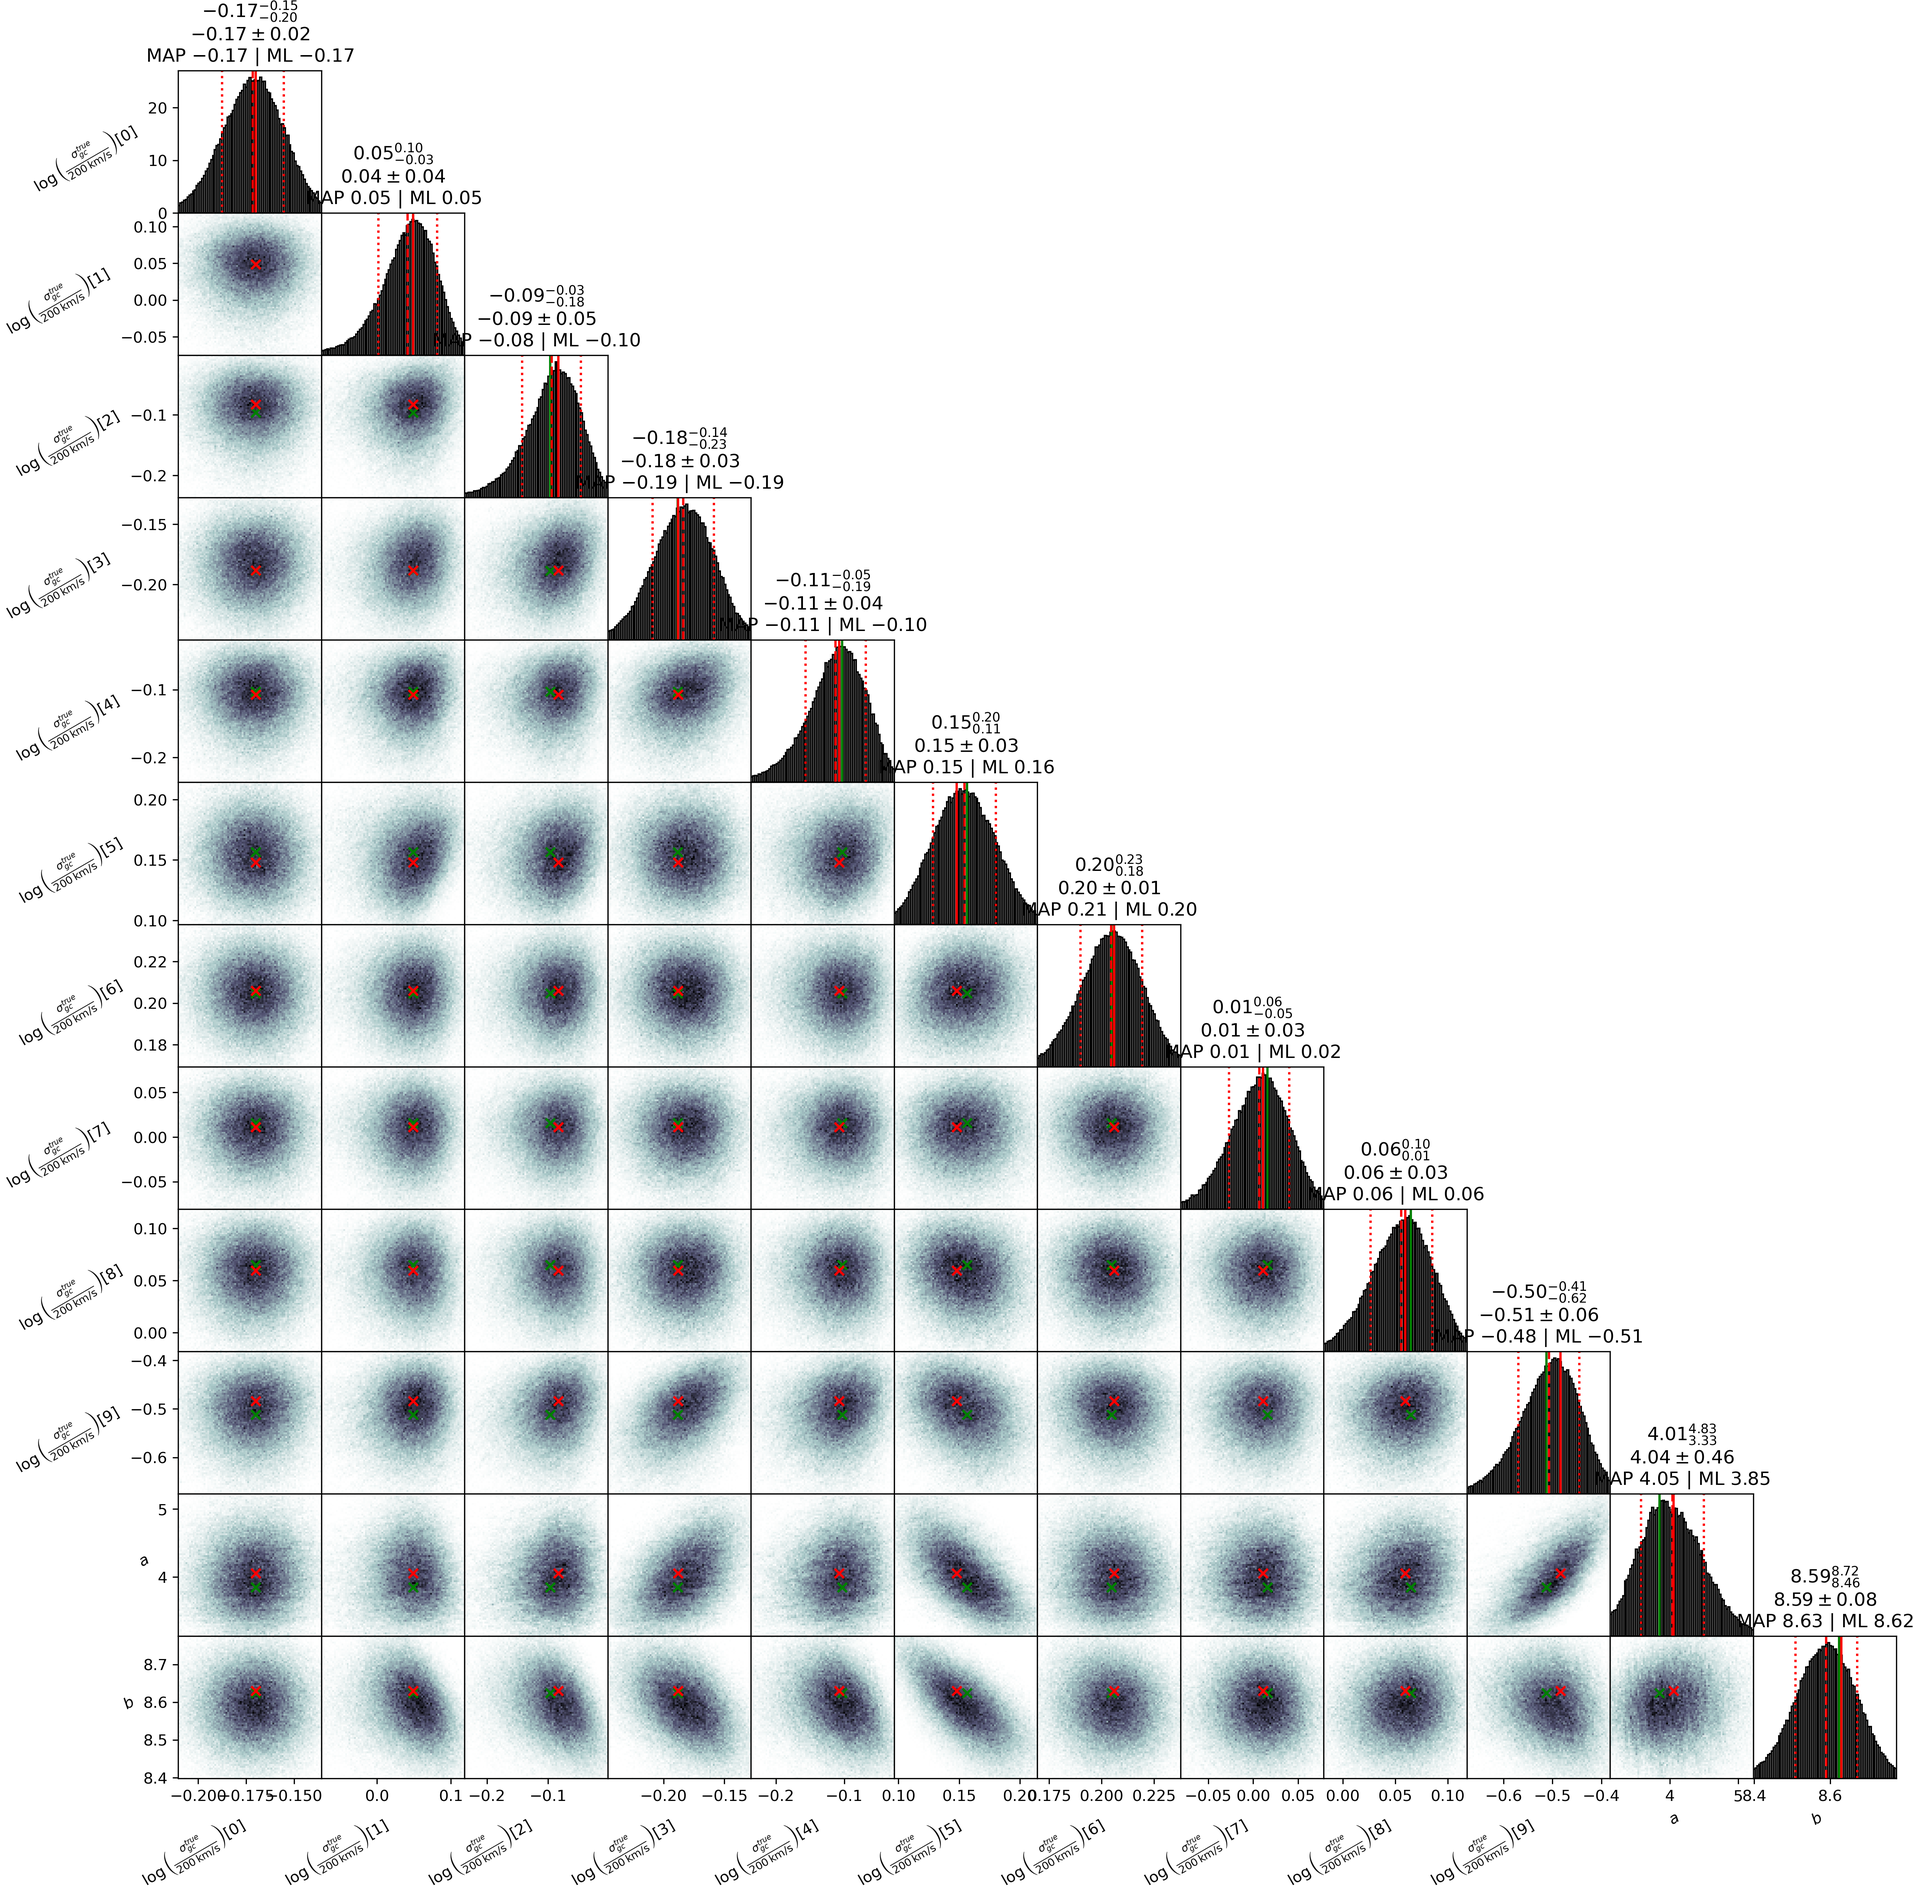
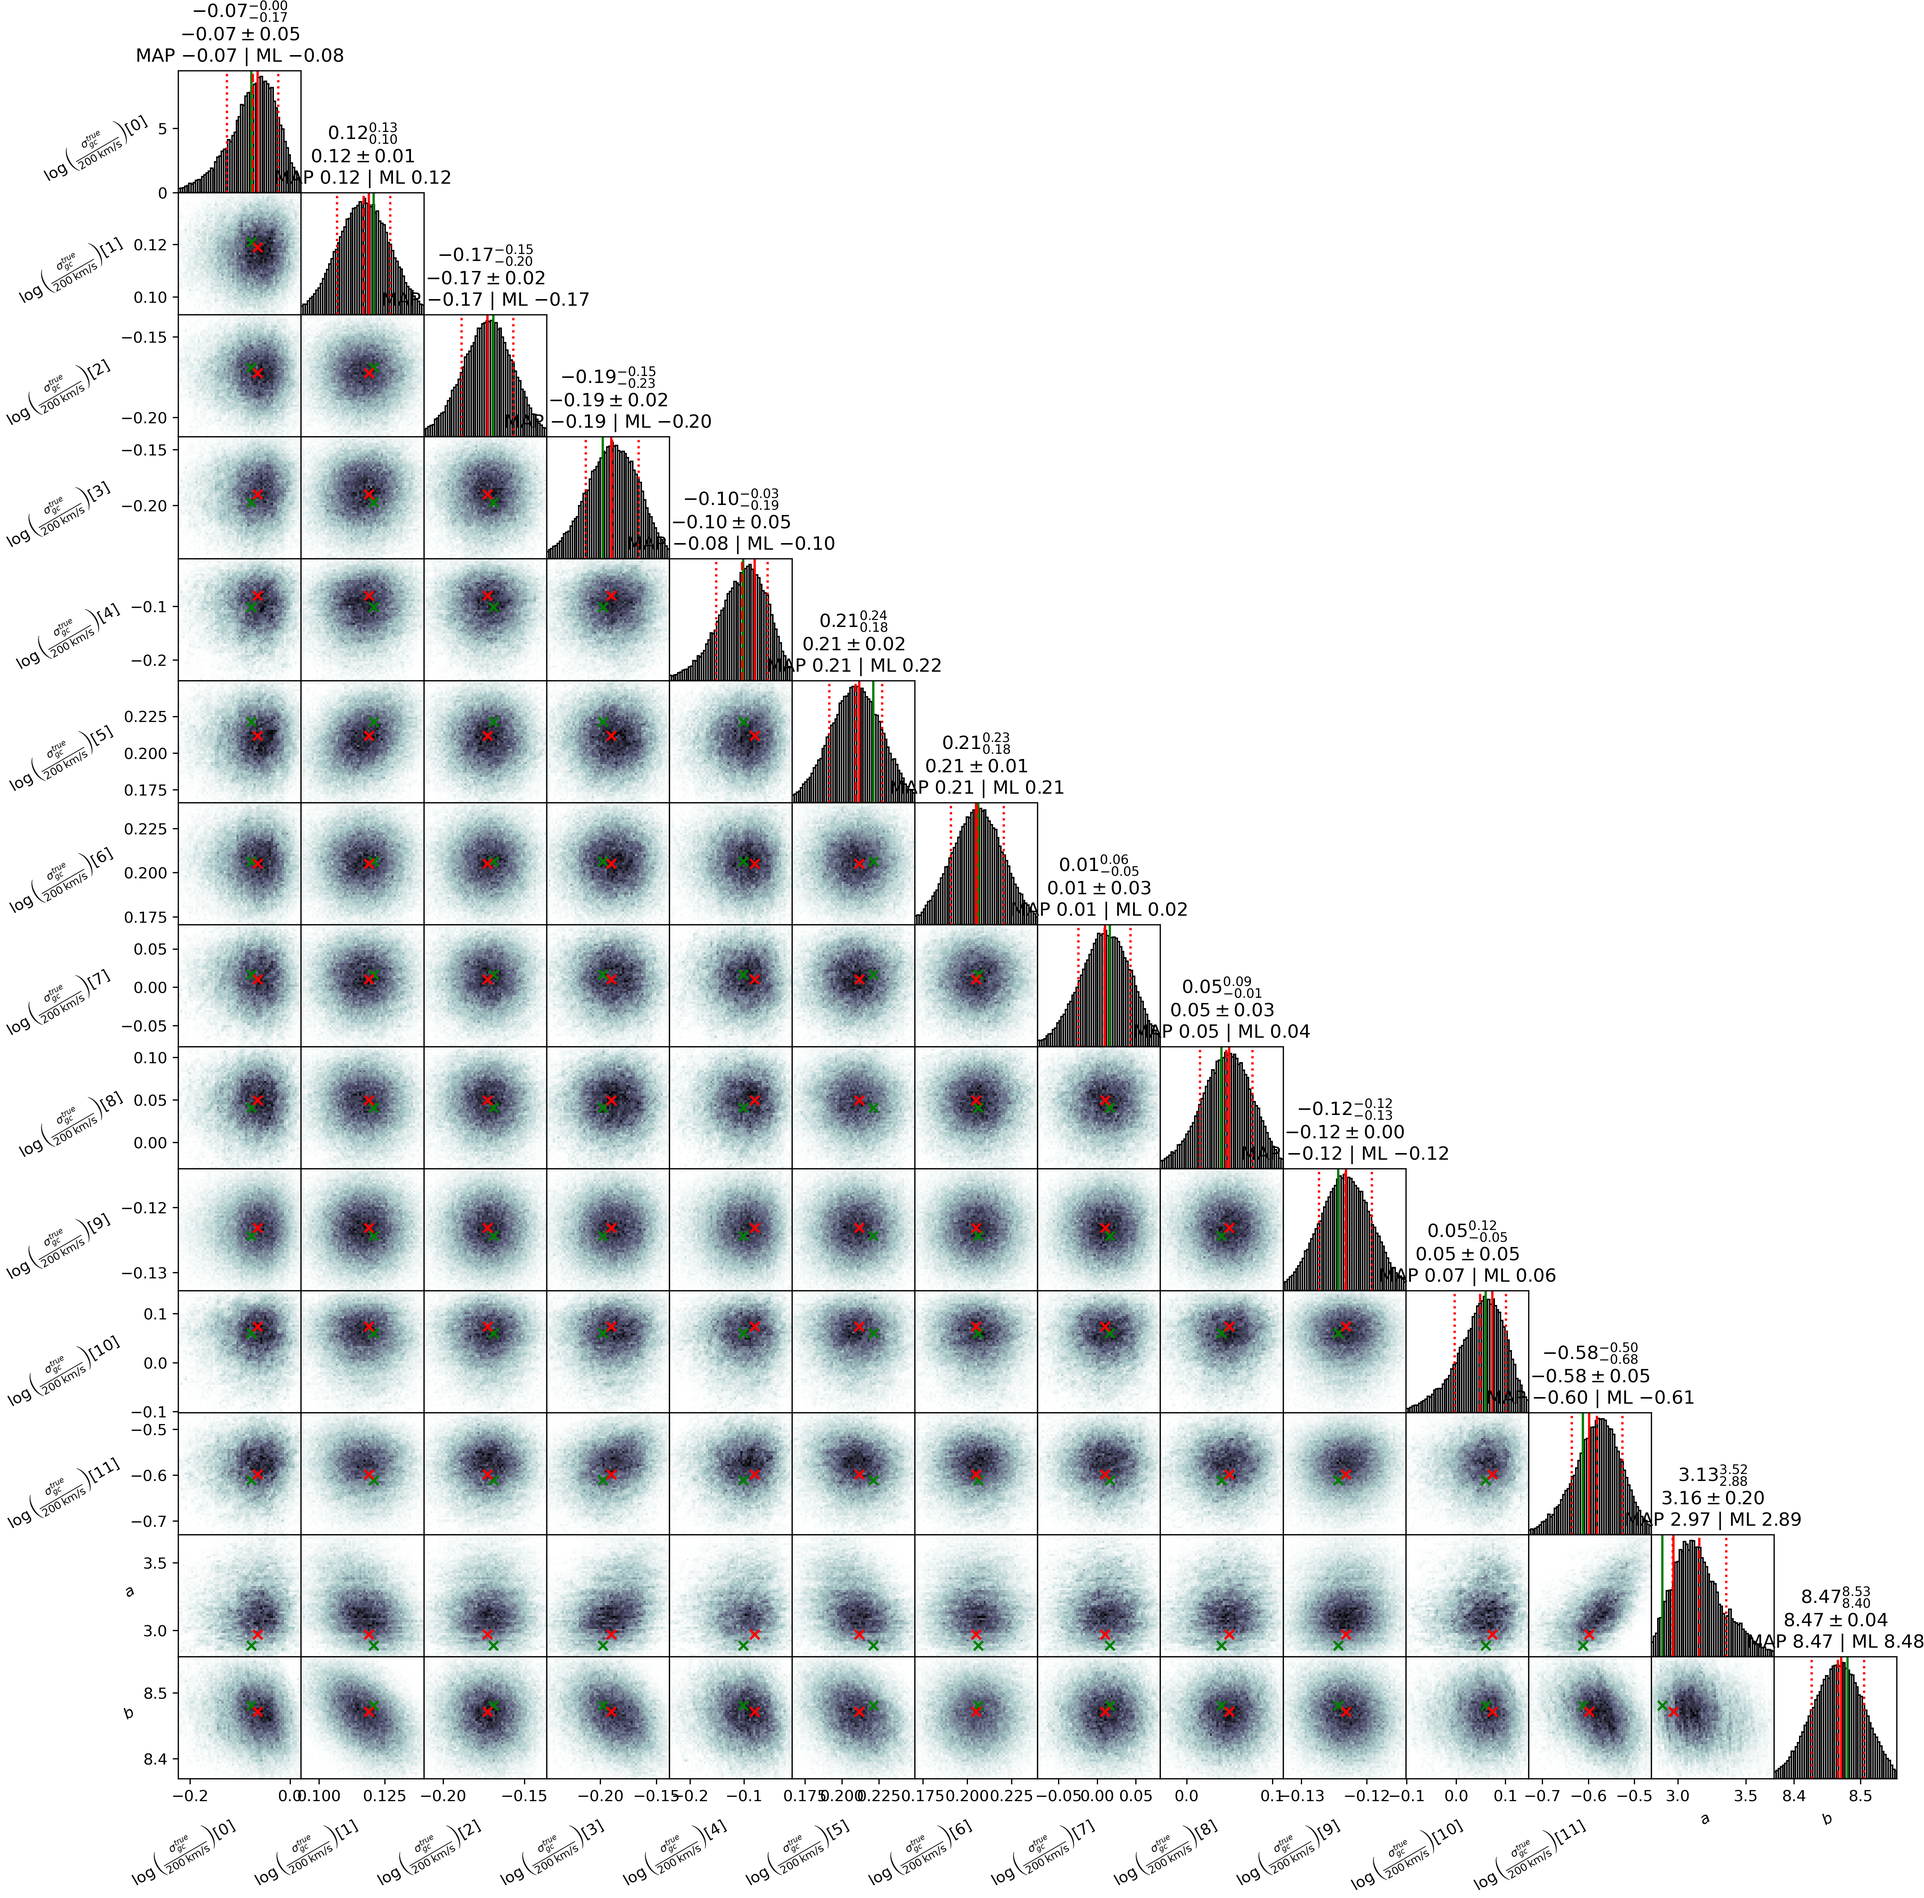
Modified the gaussian likelihood to account for those galaxies where two different measurements of black hole mass are available. Also, created corner plot with Seaborn.

diff --git a/code/mbh_seaborn.py b/code/mbh_seaborn.py
@@ -1,0 +1,141 @@
+"""
+--- PLOTTING SCRIPT ---
+This file is intended to be used for creating the final plots avoiding 
+the need to re-run the entire data processing and inference steps.
+
+Author: Francesco Enrico Teofilo
+
+"""
+import os
+from pathlib import Path
+import pickle
+# Force JAX to ignore TPU/GPU backends in this environment.
+os.environ.setdefault("JAX_PLATFORMS", "cpu")
+os.environ.setdefault("JAX_PLATFORM_NAME", "cpu")
+import numpy as np
+import jax
+jax.config.update("jax_enable_x64", True)
+jax.config.update("jax_platform_name", "cpu")
+jnp = jax.numpy
+jsp = jax.scipy
+random = jax.random
+grad = jax.grad
+jit = jax.jit
+vmap = jax.vmap
+from jaxns import resample
+import tensorflow_probability.substrates.jax as tfp
+tfpd = tfp.distributions
+import matplotlib.pyplot as plt
+from utils import load_nested_sampler_results, import_bh_data
+from my_models import  linear_correlation
+from mbh_jaxns_newprior_normal import linear_uninformative_gaussian
+from mbh_jaxns_newprior_normal_all import linear_uninformative_gaussian_all
+import seaborn as sns
+import pandas as pd
+
+DEBUG = False
+
+if __name__ == "__main__":
+    bh_data = import_bh_data("data/bh_table_1_all.txt")
+    print(f"Loaded columns: {list(bh_data.keys())}")
+    if DEBUG:
+        for key in bh_data.keys():
+            try:
+                print(f"{key} type: {bh_data[key][0].dtype}")
+            except:
+                print(f"{key} type: {type(bh_data[key][0])}")
+
+    print(bh_data["sigma_gc"])
+    print(bh_data["M"])
+    
+    M = bh_data["M"]
+    sigma_gc = bh_data["sigma_gc"]
+    M_equiv_err = 0.5*(bh_data["dM_low"]+bh_data["dM_high"])
+    sigma_gc_equiv_err = 0.5*(bh_data["sigma_gc_low"]+bh_data["sigma_gc_high"])
+    galaxy_names = bh_data["Galaxy"]
+    unique_names, inverse, counts = np.unique(galaxy_names, return_inverse=True, return_counts=True)
+
+
+    ### --- LINEAR MODEL + GAUSSIAN LIKELIHOOD
+    gaussian_uninformative_jaxns = linear_uninformative_gaussian_all(galaxy_names, M, M_equiv_err, sigma_gc, sigma_gc_equiv_err)
+
+    gaussian_uninformative_jaxns_results = load_nested_sampler_results("results/gaussian_uninformative_jaxns_results.pkl")
+    gaussian_uninformative_jaxns_termination = load_nested_sampler_results("results/gaussian_uninformative_jaxns_termination.pkl")
+    gaussian_uninformative_jaxns_state = load_nested_sampler_results("results/gaussian_uninformative_jaxns_state.pkl")
+    gaussian_uninformative_jaxns_npz = np.load("results/gaussian_uninformative_jaxns_npz.npz")
+    gaussian_uninformative_jaxns_log_Z = gaussian_uninformative_jaxns_npz["log_Z"]
+    gaussian_uninformative_jaxns_log_L = gaussian_uninformative_jaxns_npz["log_L"]
+    gaussian_uninformative_jaxns_U = gaussian_uninformative_jaxns_npz["U"]
+
+    linear_uninformative_gaussian_jaxns_posterior_samples = resample(
+        random.PRNGKey(42),
+        gaussian_uninformative_jaxns_results.samples, 
+        gaussian_uninformative_jaxns_results.log_dp_mean,
+        S=int(jnp.floor(gaussian_uninformative_jaxns_results.ESS))
+        )
+    print(linear_uninformative_gaussian_jaxns_posterior_samples.keys())
+
+    plot_data = {
+        "a": linear_uninformative_gaussian_jaxns_posterior_samples["$a$"],
+        "b": linear_uninformative_gaussian_jaxns_posterior_samples["$b$"]
+    }
+
+    # 3. Unpack the 2D sigma array into multiple 1D columns
+    sigma_array = linear_uninformative_gaussian_jaxns_posterior_samples[r"$\log\left(\frac{\sigma_{gc}^{true}}{200\,\rm{km/s}}\right)$"]
+    Nn_bh = sigma_array.shape[1]
+
+    # This creates a new column for each component, e.g., $\sigma$_0, $\sigma$_1, etc.
+    for i in range(Nn_bh):
+        plot_data[r"$\sigma_{GC}^{%s}\,[\rm{km/s}]$" %unique_names[i]] = jnp.exp(jnp.log(10)*(sigma_array[:, i] + jnp.log10(200.0)))
+
+    # 4. Convert to a Pandas DataFrame (Seaborn handles DataFrames much better)
+    df = pd.DataFrame(plot_data) 
+    
+    print('Initiating plot...')
+    g = sns.PairGrid(df, 
+                     #corner=True,
+                     )
+    g.map_upper(sns.kdeplot,fill=False, thresh=0.0,
+                common_norm=True,
+                levels=jsp.special.erfc(jnp.linspace(5, 0, 6)/jnp.sqrt(2)), #jnp.exp(-0.5 * jnp.linspace(5, 0, 6)**2),
+                )
+    g.map_upper(sns.scatterplot, 
+                s=3, 
+                alpha=0.4, 
+                color=".2", 
+                marker="."
+                )
+    g.map_lower(sns.kdeplot,fill=True, thresh=0.0,
+                common_norm=True,
+                levels=100,
+                cmap="mako"
+                )
+    g.map_diag(sns.histplot, lw=1.0, legend=False,
+               kde=True,
+               common_norm=True, 
+               fill=True
+               )
+    
+    '''
+    for ax in g.diag_axes:
+        y_max = 0
+        
+        # 1. Extract the maximum y-value from the KDE boundary line
+        for line in ax.get_lines():
+            y_max = max(y_max, line.get_ydata().max())
+            
+        # 2. Extract the maximum y-value from the KDE fill (PolyCollection)
+        #    This is a fallback in case you ever set lw=0 
+        for collection in ax.collections:
+            for path in collection.get_paths():
+                if len(path.vertices) > 0:
+                    y_max = max(y_max, path.vertices[:, 1].max())
+
+        # 3. Force the axis limits to exactly match the KDE peak
+        if y_max > 0:
+            ax.set_ylim(0, y_max)
+    '''
+    plt.show()
+
+    exit()
+    

diff --git a/code/mbh_jaxns_newprior_normal_all.py b/code/mbh_jaxns_newprior_normal_all.py
@@ -31,8 +31,10 @@ import seaborn as sns
 DEBUG = False
 
 
-def linear_uninformative_gaussian(M, M_equiv_err, sigma_gc, sigma_gc_equiv_err):
-    N_bh = len(M)
+def linear_uninformative_gaussian_all(galaxy_names, M, M_equiv_err, sigma_gc, sigma_gc_equiv_err):
+    unique_names, inverse, counts = np.unique(galaxy_names, return_inverse=True, return_counts=True)
+    weights = jnp.asarray(1.0 / counts[inverse].astype(np.float64), dtype=jnp.float64)
+    N_bh = len(unique_names)
     amin, amax = -jnp.inf, jnp.inf
     bmin, bmax = -1/(10*jnp.finfo(jnp.float64).eps), 1/(10*jnp.finfo(jnp.float64).eps)
     log_sigma_gc_min, log_sigma_gc_max = -3.0-jnp.log10(200.0), jnp.log10(2.99792458e5) - jnp.log10(200.0) #
@@ -53,11 +55,12 @@ def linear_uninformative_gaussian(M, M_equiv_err, sigma_gc, sigma_gc_equiv_err):
     
     @jit
     def log_likelihood_normal(a, b, log_true_sigma_gc):
-        predicted_M = 10**linear_correlation(log_true_sigma_gc, a, b)
-        true_sigma_gc = 10**(log_true_sigma_gc+jnp.log10(200.0))
+        predicted_M = 10**linear_correlation(log_true_sigma_gc[inverse], a, b)
+        true_sigma_gc = 10**(log_true_sigma_gc[inverse]+jnp.log10(200.0))
         log_like = jnp.sum(
             tfpd.Normal(predicted_M, M_equiv_err).log_prob(M)
             + tfpd.Normal(true_sigma_gc, sigma_gc_equiv_err).log_prob(sigma_gc)
+            + jnp.log(weights)
         )
         return log_like
     
@@ -75,12 +78,12 @@ def linear_uninformative_gaussian(M, M_equiv_err, sigma_gc, sigma_gc_equiv_err):
     model = Model(prior_linear_uninformative, log_likelihood_normal)
     model.sanity_check(random.PRNGKey(0), S=10)
 
-    jaxns_istance = NestedSampler(model, k=model.U_ndims, num_live_points=model.U_ndims*10000, #parameter_estimation=True, 
+    jaxns_istance = NestedSampler(model, k=model.U_ndims, num_live_points=model.U_ndims*1000, #parameter_estimation=True, 
                        difficult_model=True, verbose=True)
     return jaxns_istance
 
 if __name__ == "__main__":
-    bh_data = import_bh_data("data/bh_table_1.txt")
+    bh_data = import_bh_data("data/bh_table_1_all.txt")
     print(f"Loaded columns: {list(bh_data.keys())}")
     if DEBUG:
         for key in bh_data.keys():
@@ -89,16 +92,13 @@ if __name__ == "__main__":
             except:
                 print(f"{key} type: {type(bh_data[key][0])}")
 
-    print(bh_data["sigma_gc"])
-    print(bh_data["M"])
-
     M = bh_data["M"]
     sigma_gc = bh_data["sigma_gc"]
     M_equiv_err = 0.5*(bh_data["dM_low"]+bh_data["dM_high"])
     sigma_gc_equiv_err = 0.5*(bh_data["sigma_gc_low"]+bh_data["sigma_gc_high"])
-    N_bh = len(M)
+    galaxy_names = bh_data["Galaxy"]
 
-    jaxns_istance = linear_uninformative_gaussian(M, M_equiv_err, sigma_gc, sigma_gc_equiv_err)
+    jaxns_istance = linear_uninformative_gaussian_all(galaxy_names, M, M_equiv_err, sigma_gc, sigma_gc_equiv_err)
     
     termination_reason, state = jax.jit(jaxns_istance)(random.PRNGKey(2))
     results = jaxns_istance.to_results(termination_reason, state=state)

diff --git a/code/mbh_plots.py b/code/mbh_plots.py
@@ -29,6 +29,8 @@ import matplotlib.pyplot as plt
 from utils import load_nested_sampler_results, import_bh_data
 from my_models import  linear_correlation
 from mbh_jaxns_newprior_normal import linear_uninformative_gaussian
+from mbh_jaxns_newprior_normal_all import linear_uninformative_gaussian_all
+import seaborn as sns
 
 DEBUG = False
 
@@ -49,7 +51,6 @@ if __name__ == "__main__":
     sigma_gc = bh_data["sigma_gc"]
     M_equiv_err = 0.5*(bh_data["dM_low"]+bh_data["dM_high"])
     sigma_gc_equiv_err = 0.5*(bh_data["sigma_gc_low"]+bh_data["sigma_gc_high"])
-    N_bh = len(M)
 
     plt.figure('bh_data', figsize=(6, 4), dpi=600)
     plt.title(r'Acquired data for $M_{BH}-\sigma_{gc}$ correlation')
@@ -70,7 +71,7 @@ if __name__ == "__main__":
     ### --- LINEAR MODEL + GAUSSIAN LIKELIHOOD
 
 
-    gaussian_uninformative_jaxns = linear_uninformative_gaussian(M, M_equiv_err, sigma_gc, sigma_gc_equiv_err)
+    gaussian_uninformative_jaxns = linear_uninformative_gaussian_all(bh_data["Galaxy"],M, M_equiv_err, sigma_gc, sigma_gc_equiv_err)
 
     gaussian_uninformative_jaxns_results = load_nested_sampler_results("results/gaussian_uninformative_jaxns_results.pkl")
     gaussian_uninformative_jaxns_termination = load_nested_sampler_results("results/gaussian_uninformative_jaxns_termination.pkl")
@@ -92,6 +93,8 @@ if __name__ == "__main__":
         )
     print(linear_uninformative_gaussian_jaxns_posterior_samples.keys())
 
+
+    ### --- POSTERIOR PREDICTIVE PLOT: LINEAR MODEL + GAUSSIAN LIKELIHOOD ---
     linear_uninformative_gaussian_jaxns_corrfig, linear_uninformative_gaussian_jaxns_axs = plt.subplots(
         1, 1, figsize=(16, 9), dpi=150)
     linear_uninformative_gaussian_jaxns_corrfig.suptitle(r'$M_{BH}-\sigma_{gc}$ correlation: linear model'+
@@ -103,7 +106,7 @@ if __name__ == "__main__":
                                                     label='Observed Data', markersize=4.0, capsize=2.0, 
                                                     linestyle='None', color='black', alpha=0.95)
     print([att for att in dir(gaussian_uninformative_jaxns_results) if not att.startswith("_")])
-    x_arr = np.logspace(np.log10(50), np.log10(500), 1000)
+    x_arr = np.logspace(np.log10(50), np.log10(500), 10)
     a_samples = linear_uninformative_gaussian_jaxns_posterior_samples["$a$"]
     b_samples = linear_uninformative_gaussian_jaxns_posterior_samples["$b$"]
     @jax.jit
@@ -125,7 +128,8 @@ if __name__ == "__main__":
     linear_uninformative_gaussian_jaxns_axs.set_ylim(1e6, 1e10)
     linear_uninformative_gaussian_jaxns_axs.set_xscale('log')
     linear_uninformative_gaussian_jaxns_axs.set_yscale('log')
-    
     plt.show()
-    plt.close()
+
+
     exit()
+    

diff --git a/code/mbh_skewnormal_params.py b/code/mbh_skewnormal_params.py
@@ -74,7 +74,7 @@ def solve_logskewnormal_mode_quantiles(log_mode, log_left_edge, log_right_edge):
 batch_solver = jit(vmap(solve_logskewnormal_mode_quantiles, in_axes=(0, 0, 0)))
 
 if __name__ == "__main__":
-    bh_data = import_bh_data("./data/bh_table_1.txt")
+    bh_data = import_bh_data("./data/bh_table_1_all.txt")
     print(f"Loaded columns: {list(bh_data.keys())}")
     if DEBUG:
         for key in bh_data.keys():
